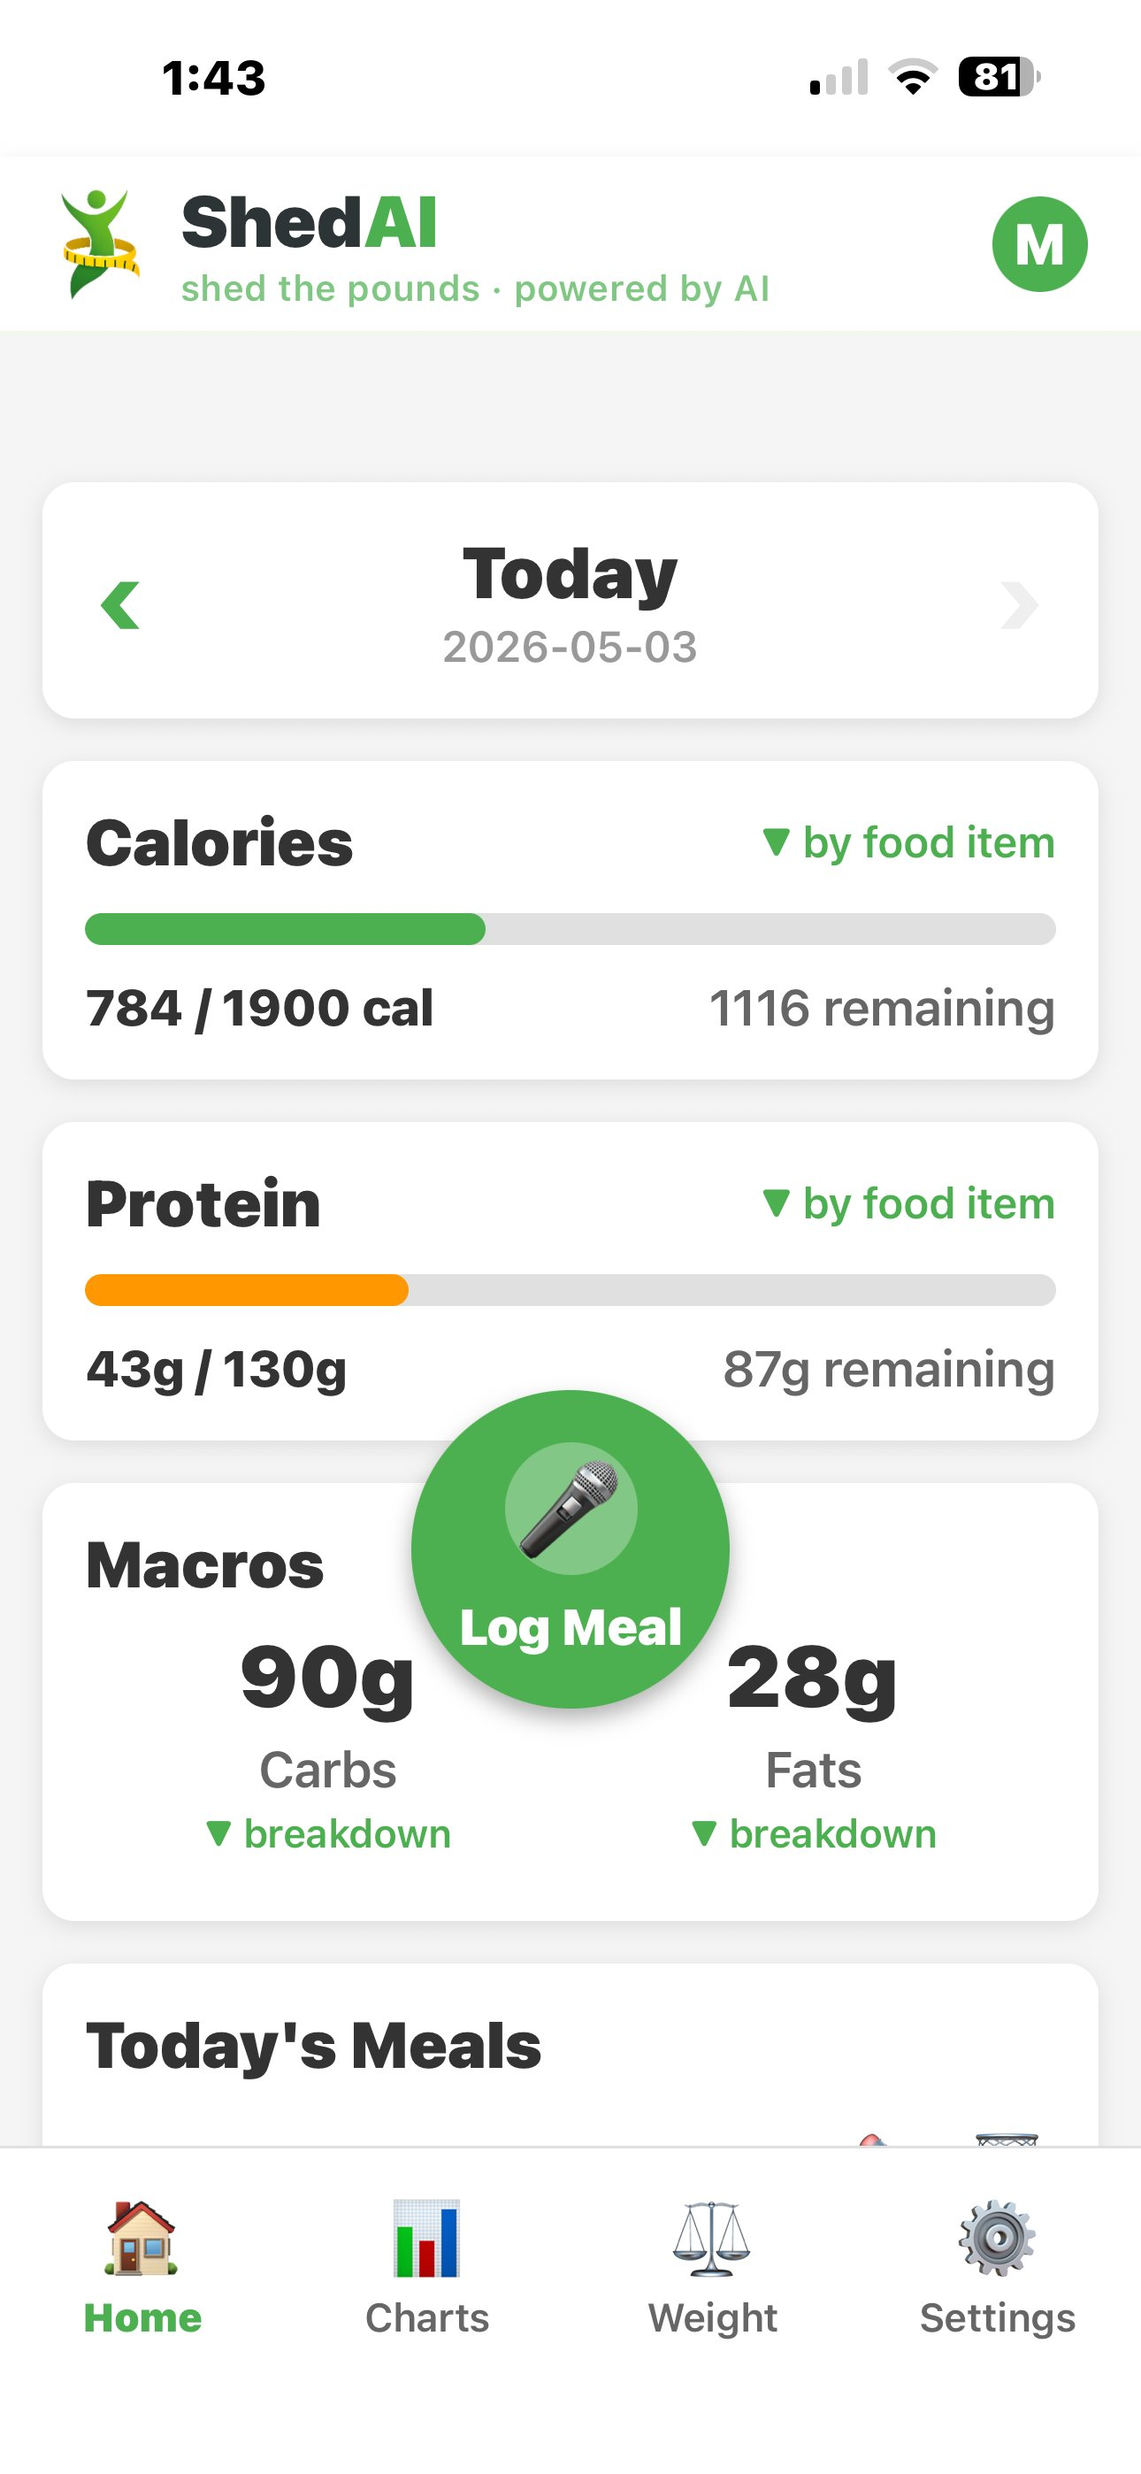
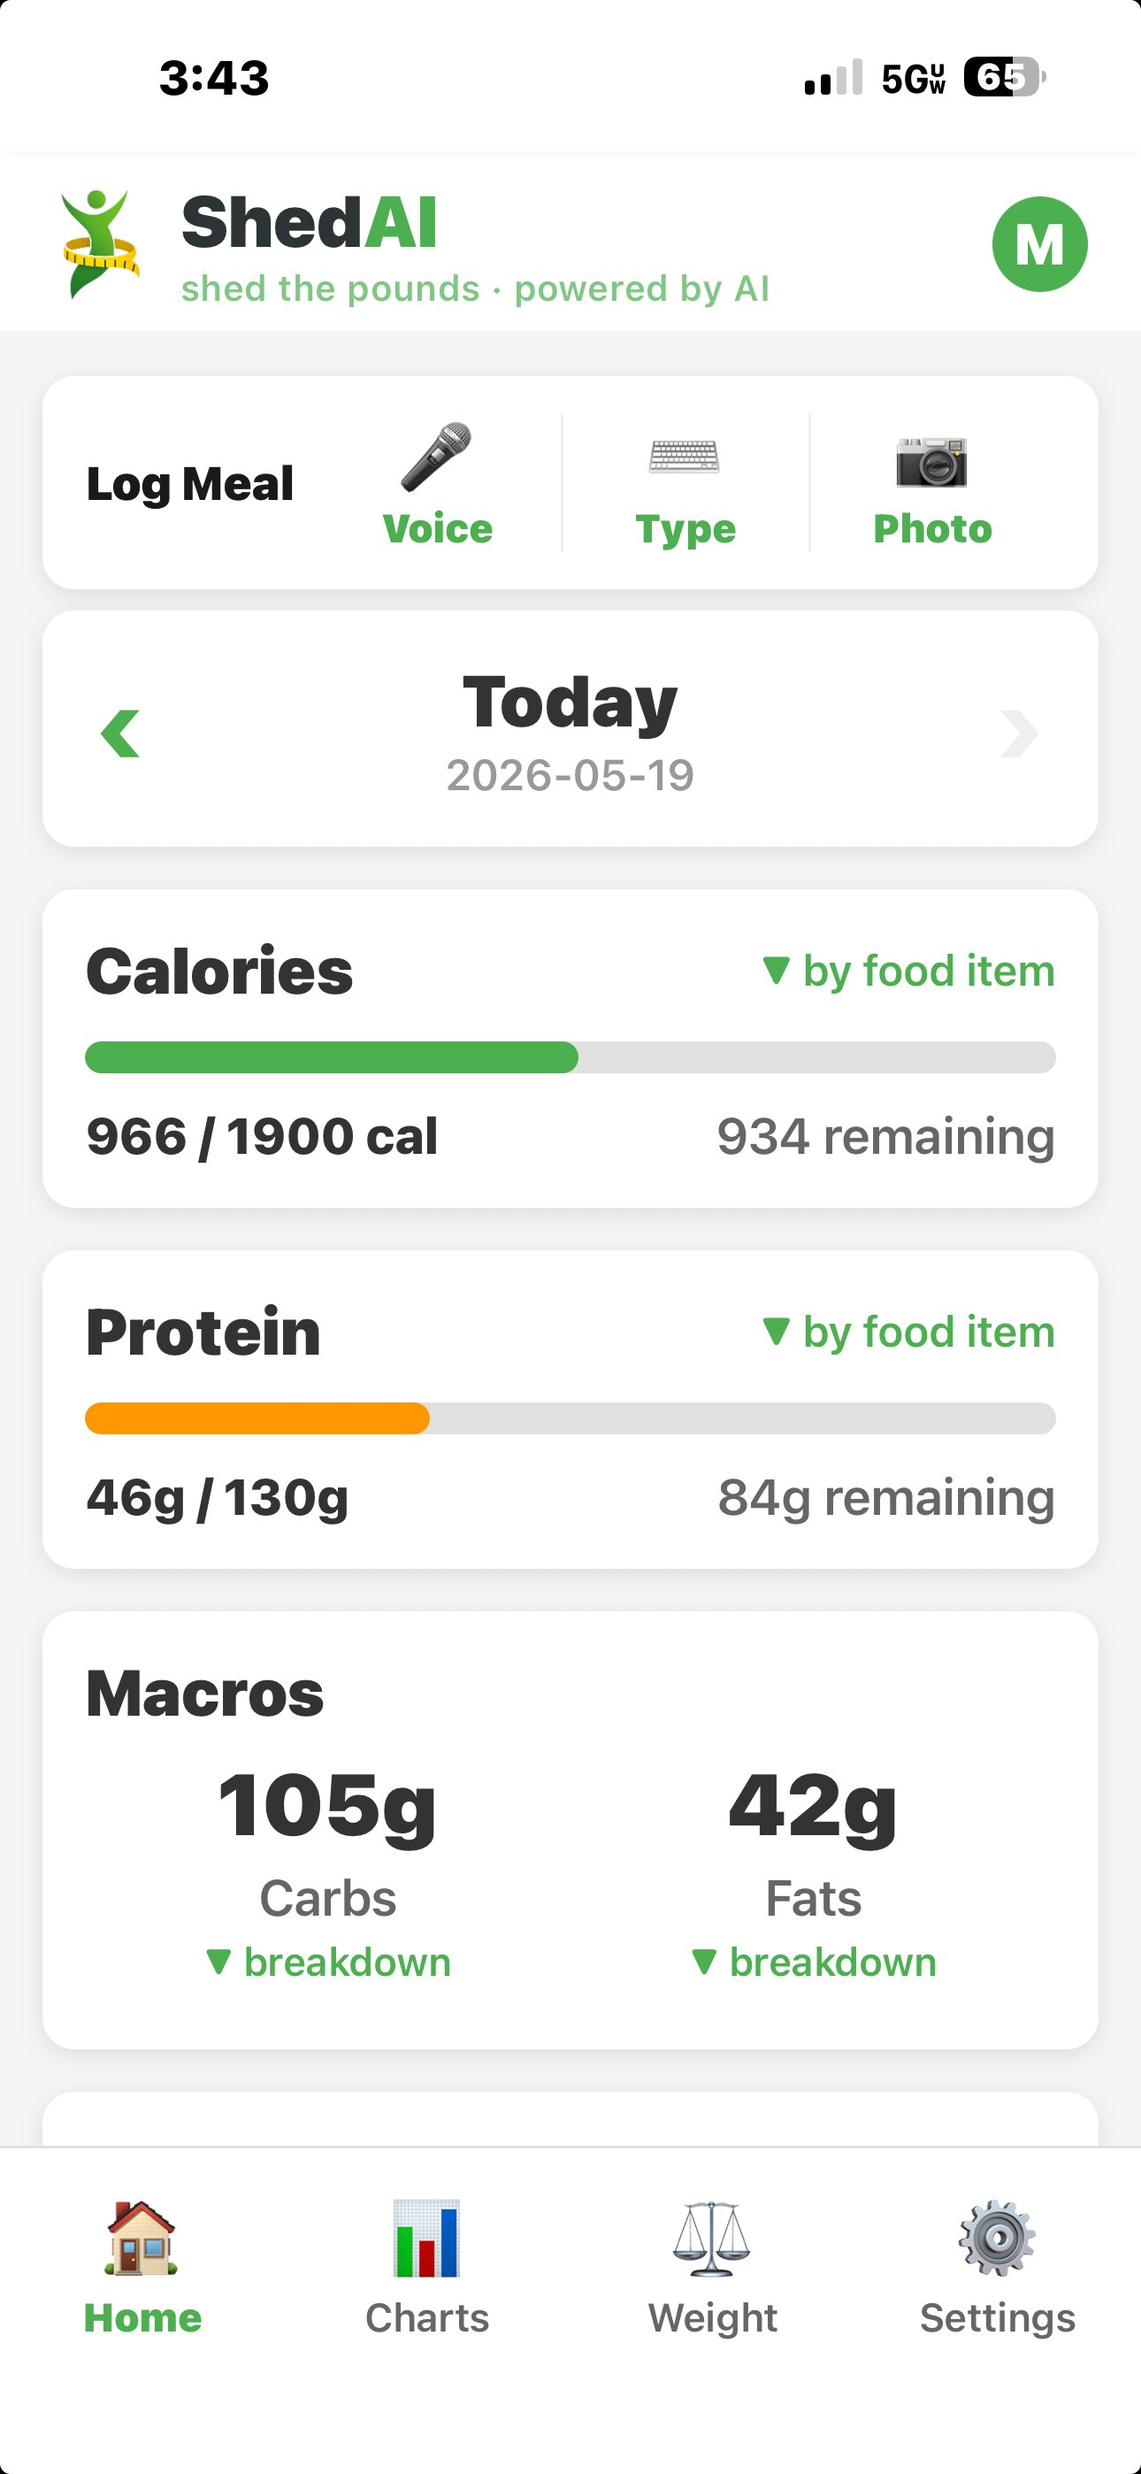
updating the website with new app main page

diff --git a/index.html b/index.html
@@ -4,12 +4,11 @@
 <meta charset="UTF-8">
 <meta name="viewport" content="width=device-width, initial-scale=1.0">
 <title>ShedAI — AI-Powered Weight Loss App</title>
-<meta name="description" content="ShedAI uses AI to help you track meals, monitor calories, and reach your goal weight. Simple, powerful, and built for real life.">
+<meta name="description" content="ShedAI uses AI to help you track meals by voice, photo, or text, monitor calories, and reach your goal weight. Simple, powerful, and built for real life.">
 <link rel="preconnect" href="https://fonts.googleapis.com">
 <link href="https://fonts.googleapis.com/css2?family=Sora:wght@300;400;600;700;800&family=Inter:wght@400;500&display=swap" rel="stylesheet">
 <style>
   *, *::before, *::after { box-sizing: border-box; margin: 0; padding: 0; }
-
   :root {
     --green: #2E7D32;
     --green-light: #4CAF50;
@@ -20,7 +19,6 @@
     --white: #FFFFFF;
     --cream: #FAFAF5;
   }
-
   html { scroll-behavior: smooth; }
   body { font-family: 'Inter', sans-serif; background: var(--white); color: var(--dark); overflow-x: hidden; }
 
@@ -34,11 +32,10 @@
     border-bottom: 1px solid rgba(0,0,0,0.06);
   }
   .nav-logo { display: flex; align-items: center; gap: 10px; text-decoration: none; }
-  .nav-logo-icon { height: 42px; width: auto; border-radius: 8px; overflow: hidden; display: flex; align-items: center; }
-  .nav-logo-icon img { height: 42px; width: auto; object-fit: contain; }
+  .nav-logo img { height: 42px; width: auto; border-radius: 8px; }
   .nav-brand { font-family: 'Sora', sans-serif; font-size: 20px; font-weight: 800; }
-  .nav-brand span:first-child { color: var(--dark); }
-  .nav-brand span:last-child { color: var(--green-light); }
+  .nav-brand .dark { color: var(--dark); }
+  .nav-brand .green { color: var(--green-light); }
   .nav-cta { background: var(--green-light); color: white; padding: 10px 22px; border-radius: 24px; text-decoration: none; font-family: 'Sora', sans-serif; font-weight: 600; font-size: 14px; transition: background 0.2s; }
   .nav-cta:hover { background: var(--green); }
 
@@ -61,18 +58,42 @@
   .hero h1 { font-family: 'Sora', sans-serif; font-size: clamp(40px, 7vw, 80px); font-weight: 800; line-height: 1.1; letter-spacing: -2px; margin-bottom: 24px; max-width: 800px; }
   .hero h1 .highlight { color: var(--green-light); }
   .hero p { font-size: clamp(16px, 2.5vw, 20px); color: var(--grey); max-width: 540px; line-height: 1.7; margin-bottom: 40px; }
-  .hero-buttons { display: flex; gap: 14px; flex-wrap: wrap; justify-content: center; margin-bottom: 64px; }
-
+  .hero-buttons { display: flex; gap: 14px; flex-wrap: wrap; justify-content: center; margin-bottom: 40px; }
   .btn-primary { display: inline-flex; align-items: center; gap: 8px; background: var(--dark); color: white; padding: 16px 28px; border-radius: 14px; text-decoration: none; font-family: 'Sora', sans-serif; font-weight: 600; font-size: 15px; transition: transform 0.2s, box-shadow 0.2s; box-shadow: 0 4px 20px rgba(0,0,0,0.15); }
   .btn-primary:hover { transform: translateY(-2px); box-shadow: 0 8px 30px rgba(0,0,0,0.2); }
   .btn-secondary { display: inline-flex; align-items: center; gap: 8px; background: white; color: var(--dark); padding: 16px 28px; border-radius: 14px; text-decoration: none; font-family: 'Sora', sans-serif; font-weight: 600; font-size: 15px; border: 1.5px solid #e0e0e0; transition: border-color 0.2s; }
   .btn-secondary:hover { border-color: var(--green-light); }
 
-  /* SCREENSHOTS */
-  .screenshots-row {
-    display: flex; gap: 20px; justify-content: center;
-    align-items: flex-end; flex-wrap: wrap;
+  /* LOG MEAL BAR DEMO */
+  .log-meal-demo {
+    background: white;
+    border-radius: 16px;
+    padding: 14px 20px;
+    display: flex;
+    align-items: center;
+    gap: 0;
+    box-shadow: 0 8px 32px rgba(0,0,0,0.12);
+    margin-bottom: 48px;
+    max-width: 420px;
+    width: 100%;
+    border: 1px solid #eee;
   }
+  .log-meal-label { font-family: 'Sora', sans-serif; font-weight: 700; font-size: 14px; color: var(--dark); flex: 1; }
+  .log-meal-options { display: flex; gap: 0; }
+  .log-meal-option {
+    display: flex; flex-direction: column; align-items: center; gap: 4px;
+    padding: 8px 16px;
+    border-left: 1px solid #eee;
+    cursor: pointer;
+    transition: background 0.2s;
+    border-radius: 8px;
+  }
+  .log-meal-option:hover { background: var(--green-pale); }
+  .log-meal-option .icon { font-size: 18px; }
+  .log-meal-option .label { font-size: 11px; font-weight: 600; color: var(--green-light); }
+
+  /* SCREENSHOTS */
+  .screenshots-row { display: flex; gap: 20px; justify-content: center; align-items: flex-end; flex-wrap: wrap; }
   .screenshot-frame { position: relative; transition: transform 0.3s; }
   .screenshot-frame:hover { transform: translateY(-8px); }
   .screenshot-frame img { border-radius: 32px; box-shadow: 0 32px 64px rgba(0,0,0,0.22), 0 0 0 1px rgba(0,0,0,0.06); display: block; }
@@ -96,6 +117,16 @@
   .feature-icon { width: 52px; height: 52px; background: white; border-radius: 14px; display: flex; align-items: center; justify-content: center; font-size: 26px; margin-bottom: 16px; box-shadow: 0 2px 8px rgba(0,0,0,0.06); }
   .feature-title { font-family: 'Sora', sans-serif; font-size: 17px; font-weight: 700; margin-bottom: 8px; }
   .feature-desc { font-size: 14px; color: var(--grey); line-height: 1.6; }
+
+  /* LOG MEAL HIGHLIGHT */
+  .log-meal-highlight {
+    background: linear-gradient(135deg, #E8F5E9 0%, #F1F8E9 100%);
+    border: 2px solid var(--green-mid);
+    border-radius: 20px;
+    padding: 28px;
+  }
+  .log-methods { display: flex; gap: 12px; margin-top: 16px; flex-wrap: wrap; }
+  .log-method { display: flex; align-items: center; gap: 8px; background: white; border-radius: 10px; padding: 8px 14px; font-size: 13px; font-weight: 600; color: var(--dark); box-shadow: 0 2px 8px rgba(0,0,0,0.06); }
 
   /* SCREENSHOTS SECTION */
   .app-screenshots { padding: 100px 40px; background: var(--cream); text-align: center; }
@@ -131,8 +162,7 @@
   /* FOOTER */
   footer { background: #111; padding: 40px; display: flex; align-items: center; justify-content: space-between; flex-wrap: wrap; gap: 16px; }
   .footer-brand { display: flex; align-items: center; gap: 10px; }
-  .footer-logo-img { height: 36px; width: auto; border-radius: 6px; overflow: hidden; }
-  .footer-logo-img img { height: 36px; width: auto; object-fit: contain; }
+  .footer-brand img { height: 36px; width: auto; border-radius: 6px; }
   .footer-brand-name { font-family: 'Sora', sans-serif; font-size: 18px; font-weight: 800; color: white; }
   .footer-brand-name span { color: var(--green-light); }
   .footer-links { display: flex; gap: 24px; }
@@ -148,11 +178,9 @@
     .app-screenshots { padding: 60px 20px; }
     .how { padding: 60px 20px; }
     .cta-section { padding: 60px 20px; }
-    footer { padding: 24px 20px; flex-direction: column; text-align: center; }
-    .footer-links { justify-content: center; }
-    .footer-brand { justify-content: center; }
-    .showcase-item.featured img { height: 360px; }
-    .showcase-item.side img { height: 300px; }
+    footer { flex-direction: column; align-items: flex-start; padding: 32px 20px; }
+    .log-meal-demo { max-width: 100%; }
+    .log-meal-option { padding: 8px 10px; }
   }
 </style>
 </head>
@@ -161,54 +189,55 @@
 <!-- NAV -->
 <nav>
   <a href="/" class="nav-logo">
-    <div class="nav-logo-icon">
-      <img src="shedaiapplogo.png" alt="ShedAI Logo">
-    </div>
-    <div class="nav-brand">
-      <span>Shed</span><span>AI</span>
-    </div>
+    <img src="shedaiapplogo.png" alt="ShedAI Logo">
+    <div class="nav-brand"><span class="dark">Shed</span><span class="green">AI</span></div>
   </a>
-  <a href="https://apps.apple.com/app/shedai/id6762681528" class="nav-cta" target="_blank">
-    Download Free →
-  </a>
+  <a href="https://apps.apple.com/app/shedai/id6762681528" class="nav-cta" target="_blank">🍎 Download Free</a>
 </nav>
 
 <!-- HERO -->
 <section class="hero">
-  <h1>
-    Shed the pounds.<br>
-    <span class="highlight">Powered by AI.</span>
-  </h1>
-
-  <p>
-    Log meals by voice, track calories and protein, monitor your weight loss journey — all powered by AI that understands your food preferences, whether Indian, Chinese, Italian, or anything in between.
-  </p>
+  <h1>Lose weight with<br><span class="highlight">AI that gets it.</span></h1>
+  <p>Log meals by voice, photo, or text. ShedAI instantly calculates your calories, protein, and macros — no food database searching required.</p>
 
   <div class="hero-buttons">
     <a href="https://apps.apple.com/app/shedai/id6762681528" class="btn-primary" target="_blank">
-      🍎 Download on App Store
+      🍎 Download on the App Store
     </a>
-    <a href="#" class="btn-primary" style="background:#555;cursor:default;" title="Coming soon">
-      🤖 Google Play — Coming Soon
-    </a>
-    <a href="#screenshots" class="btn-secondary">
-      See the app ↓
-    </a>
+    <a href="#features" class="btn-secondary">See features →</a>
   </div>
 
-  <!-- Real app screenshots in hero -->
+  <!-- Log Meal Bar Demo -->
+  <div class="log-meal-demo">
+    <div class="log-meal-label">Log Meal</div>
+    <div class="log-meal-options">
+      <div class="log-meal-option">
+        <span class="icon">🎤</span>
+        <span class="label">Voice</span>
+      </div>
+      <div class="log-meal-option">
+        <span class="icon">⌨</span>
+        <span class="label">Type</span>
+      </div>
+      <div class="log-meal-option">
+        <span class="icon">📷</span>
+        <span class="label">Photo</span>
+      </div>
+    </div>
+  </div>
+
   <div class="screenshots-row">
     <div class="screenshot-frame small">
-      <img src="screenshot-charts.png" alt="Nutrition Trends">
-      <div class="screenshot-label">Nutrition Trends</div>
+      <img src="screenshot-charts.png" alt="Nutrition Charts">
+      <div class="screenshot-label">📊 Nutrition Trends</div>
     </div>
     <div class="screenshot-frame large">
       <img src="screenshot-home.png" alt="Home Screen">
-      <div class="screenshot-label">Daily Tracking</div>
+      <div class="screenshot-label">🏠 Daily Tracking</div>
     </div>
     <div class="screenshot-frame small">
       <img src="screenshot-weight.png" alt="Weight Tracker">
-      <div class="screenshot-label">Weight Tracker</div>
+      <div class="screenshot-label">⚖ Weight Tracker</div>
     </div>
   </div>
 </section>
@@ -216,16 +245,16 @@
 <!-- STATS -->
 <div class="stats">
   <div>
+    <div class="stat-number">3</div>
+    <div class="stat-label">Ways to log meals — Voice, Type, Photo</div>
+  </div>
+  <div>
     <div class="stat-number">AI</div>
     <div class="stat-label">Powered nutrition analysis</div>
   </div>
   <div>
-    <div class="stat-number">100%</div>
-    <div class="stat-label">Free to download</div>
-  </div>
-  <div>
     <div class="stat-number">🌍</div>
-    <div class="stat-label">Understands your food preferences</div>
+    <div class="stat-label">Understands every cuisine</div>
   </div>
 </div>
 
@@ -233,23 +262,31 @@
 <section class="features" id="features">
   <div class="section-label">Features</div>
   <h2 class="section-title">Everything you need to lose weight</h2>
-  <p class="section-sub">No complicated setup. No manual food searches. Just describe what you ate and ShedAI does the rest.</p>
+  <p class="section-sub">No complicated setup. No manual food searches. Log your meal your way and ShedAI does the rest.</p>
 
   <div class="features-grid">
-    <div class="feature-card">
-      <div class="feature-icon">🎤</div>
-      <div class="feature-title">Voice Meal Logging</div>
-      <div class="feature-desc">Just say what you ate — "2 eggs, dal, 2 rotis and chai" — and AI instantly extracts calories, protein, carbs and fats.</div>
+
+    <!-- Log Meal highlight card -->
+    <div class="feature-card log-meal-highlight" style="grid-column: span 1;">
+      <div class="feature-icon">🍽</div>
+      <div class="feature-title">Log Meals Your Way</div>
+      <div class="feature-desc">Three ways to log — whatever's easiest in the moment.</div>
+      <div class="log-methods">
+        <div class="log-method">🎤 Voice — just say what you ate</div>
+        <div class="log-method">⌨ Type — describe your meal</div>
+        <div class="log-method">📷 Photo — snap your plate</div>
+      </div>
     </div>
+
     <div class="feature-card">
       <div class="feature-icon">🤖</div>
       <div class="feature-title">AI Nutrition Analysis</div>
-      <div class="feature-desc">Powered by AI, ShedAI understands real food including Indian, Chinese, Italian, and all your favourite cuisines — restaurant meals and home cooking alike.</div>
+      <div class="feature-desc">Powered by Claude AI, ShedAI understands real food — Indian, Chinese, Italian, restaurant meals, and home cooking alike. No database searching.</div>
     </div>
     <div class="feature-card">
       <div class="feature-icon">⚖</div>
       <div class="feature-title">Weight Tracking</div>
-      <div class="feature-desc">Log your weight daily or weekly and watch your progress on a beautiful trend chart that keeps you motivated.</div>
+      <div class="feature-desc">Log your weight and watch your progress on a beautiful trend chart. See exactly how many pounds lost since you started.</div>
     </div>
     <div class="feature-card">
       <div class="feature-icon">🎯</div>
@@ -258,13 +295,13 @@
     </div>
     <div class="feature-card">
       <div class="feature-icon">📊</div>
-      <div class="feature-title">Nutrition Charts</div>
+      <div class="feature-title">Nutrition Trends</div>
       <div class="feature-desc">View daily, weekly, and monthly trends for calories and protein. See exactly which foods are contributing most to your intake.</div>
     </div>
     <div class="feature-card">
       <div class="feature-icon">💡</div>
-      <div class="feature-title">Meal Suggestions</div>
-      <div class="feature-desc">Running low on protein? Ask ShedAI for a meal suggestion that fits your remaining calories and dietary preferences.</div>
+      <div class="feature-title">AI Meal Suggestions</div>
+      <div class="feature-desc">Running low on protein? Ask ShedAI for a meal suggestion that fits your remaining calories — with medical citations included.</div>
     </div>
   </div>
 </section>
@@ -305,8 +342,8 @@
     </div>
     <div class="step">
       <div class="step-number">2</div>
-      <div class="step-title">Log meals by voice</div>
-      <div class="step-desc">Tap the mic and describe what you ate. AI handles all the nutrition maths instantly.</div>
+      <div class="step-title">Log meals your way</div>
+      <div class="step-desc">Speak, type, or photograph your meal. AI handles all the nutrition maths instantly — no food database needed.</div>
     </div>
     <div class="step">
       <div class="step-number">3</div>
@@ -324,7 +361,7 @@
 <!-- CTA -->
 <section class="cta-section">
   <h2>Start shedding today.</h2>
-  <p>Free to download. No subscription required to get started.</p>
+  <p>Free to download. Log meals by voice, photo, or text.</p>
   <div class="cta-buttons">
     <a href="https://apps.apple.com/app/shedai/id6762681528" class="btn-primary" target="_blank">
       🍎 Download on the App Store
@@ -338,9 +375,7 @@
 <!-- FOOTER -->
 <footer>
   <div class="footer-brand">
-    <div class="footer-logo-img">
-      <img src="shedaiapplogo.png" alt="ShedAI Logo">
-    </div>
+    <img src="shedaiapplogo.png" alt="ShedAI Logo">
     <div class="footer-brand-name">Shed<span>AI</span></div>
   </div>
   <div class="footer-links">

diff --git a/privacy.html b/privacy.html
@@ -54,7 +54,7 @@
 
   <div class="privacy-header">
     <h1>Privacy Policy</h1>
-    <p>Last updated: May 4, 2026 &nbsp;·&nbsp; Effective: May 4, 2026</p>
+    <p>Last updated: May 19, 2026 &nbsp;·&nbsp; Effective: May 4, 2026</p>
   </div>
 
   <div class="privacy-card">
@@ -122,13 +122,13 @@
       </tr>
       <tr>
         <td>Voice recordings</td>
-        <td>—</td>
+        <td>Only transcribed text is sent, not the audio recording</td>
         <td><span class="notsent-badge">NEVER sent</span></td>
       </tr>
       <tr>
-        <td>Photos</td>
-        <td>—</td>
-        <td><span class="notsent-badge">NEVER sent</span></td>
+        <td>Meal photos</td>
+        <td>Photo of your plate when using Photo meal logging</td>
+        <td><span class="sent-badge">YES — sent</span></td>
       </tr>
       <tr>
         <td>Device identifiers</td>
@@ -184,8 +184,8 @@
   </div>
 
   <div class="privacy-card">
-    <h2>📸 Photo Library Access</h2>
-    <p>ShedAI may request access to your photo library for future features. We do not currently access, store, or transmit any photos from your device.</p>
+    <h2>📸 Camera &amp; Photo Library Access</h2>
+    <p>ShedAI requests camera and photo library access to enable photo meal logging. When you tap Photo to log a meal, you can take a new photo or choose from your library. The photo is sent to Anthropic's Claude AI to identify food items and estimate nutritional content. Photos are transmitted securely over HTTPS and are not stored on our servers.</p>
   </div>
 
   <div class="privacy-card">
